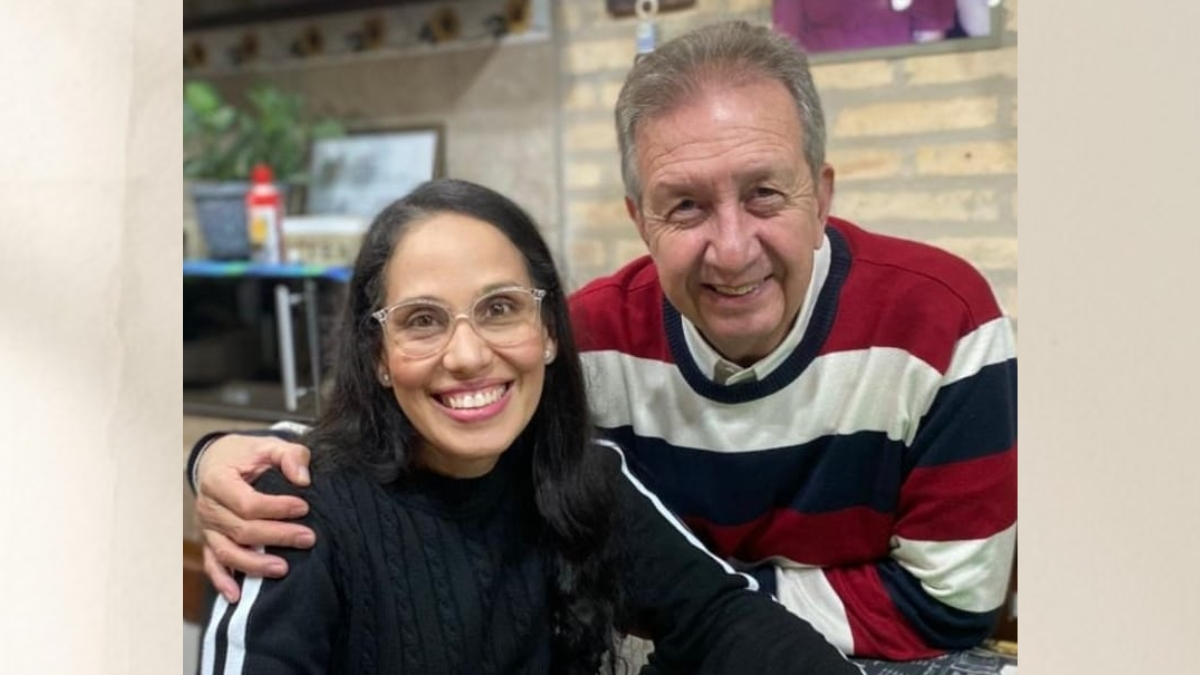
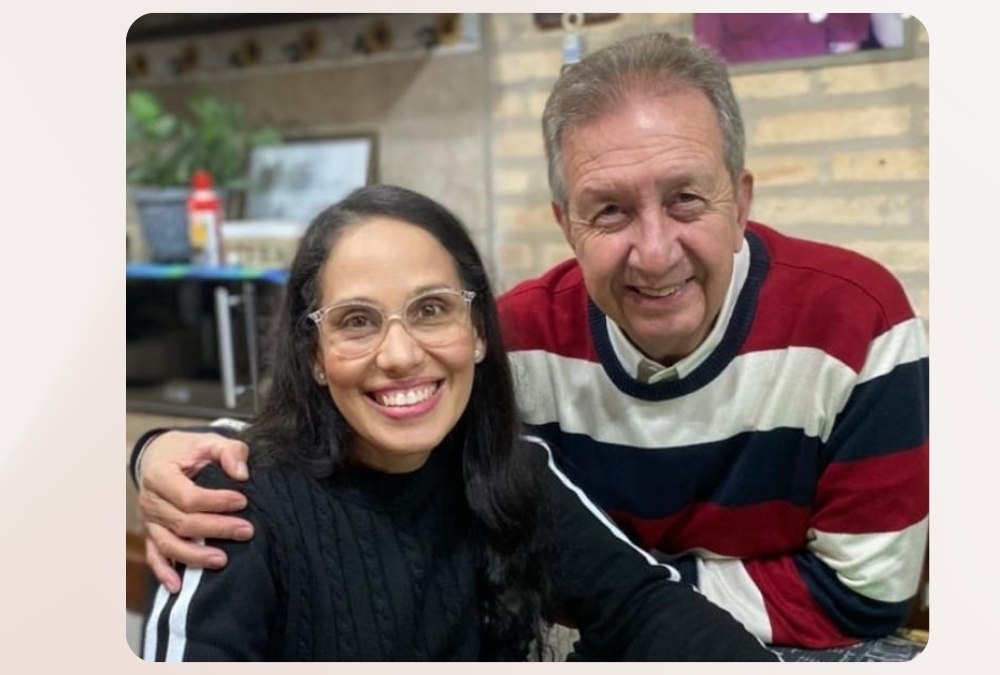
nosotros

diff --git a/css/style.css b/css/style.css
@@ -147,6 +147,7 @@ footer .pie-redes img:hover {
 .texto-bioNos {
   text-align: justify;
   padding: 15px;
+  margin-top: 20px;
 }
 .versiculo-texto {
   transition: color 0.3s ease;
@@ -355,12 +356,11 @@ footer .pie-redes img:hover {
   width: 85%;
   max-width: 900px;
   aspect-ratio: 3 / 2;
-  margin: 2rem auto;
-  padding: 20px; /* espacio interno */
+  margin: .5rem auto;
+  padding: 10px;
   position: relative;
   border-radius: 20px;
   background-color: #fcfcf9;
-  padding: 2rem;
   border-radius: 10px;
   box-shadow: 0 0 10px rgba(0, 0, 0, 0.3);
   overflow: hidden;
@@ -399,20 +399,14 @@ footer .pie-redes img:hover {
 }
 
 
-#imagenes img.activa {
-  display: block;
-  opacity: 1;
-}
-
 .boton {
   position: absolute;
   top: 50%;
   transform: translateY(-50%);
-  background-color: rgba(0, 0, 0, 0.4);
-  color: white;
+  background-color: #d4dde7;
   border: none;
-  padding: 10px 15px;
-  font-size: 1.5rem;
+  padding: 10px;
+  font-size: 1rem;
   border-radius: 50%;
   cursor: pointer;
   z-index: 2;
@@ -420,15 +414,17 @@ footer .pie-redes img:hover {
 }
 
 .boton:hover {
-  background-color: rgba(0, 0, 0, 0.7);
+  background-color: #e9dadb;
+  color: #8B0000;
+
 }
 
 #anterior {
-  left: 10px;
+  left: 5px;
 }
 
 #siguiente {
-  right: 10px;
+  right: 5px;
 }
 
 .video-nosotros {
@@ -553,13 +549,31 @@ footer .pie-redes img:hover {
   text-align: justify;
 }
 #carruselNos {
-    width: 90%;
+    width: 100%;
     padding: 10px;
     border-radius: 12px;
     box-shadow: none;
     background-color: transparent;
     border: none;
     margin: 1rem auto;
+  }
+
+  #imagenes img {
+    max-width: 100%;
+    max-height: 100%;
+    border-radius: 10px;
+  }
+  .boton {
+    display: none !important;
+  }
+
+  #imagenes img {
+    max-width: 100%;
+    max-height: 100%;
+    border-radius: 10px;
+  }
+  .boton {
+    display: none !important;
   }
 
   #imagenes img {

diff --git a/html/nosotros.html b/html/nosotros.html
@@ -72,7 +72,7 @@
         <div id="imagenes"></div>
         <button id="siguiente" class="boton">></button>
       </div>
-      <div id="bioNos"></div>
+      <div id="bioNos" class="my-lg-3 py-lg-3 my-md-2 py-md-2 my-sm-1 py-sm-1"></div>
       <section class="video-nosotros my-5">
   <div class="container-video">
     <video controls autoplay muted loop playsinline>
